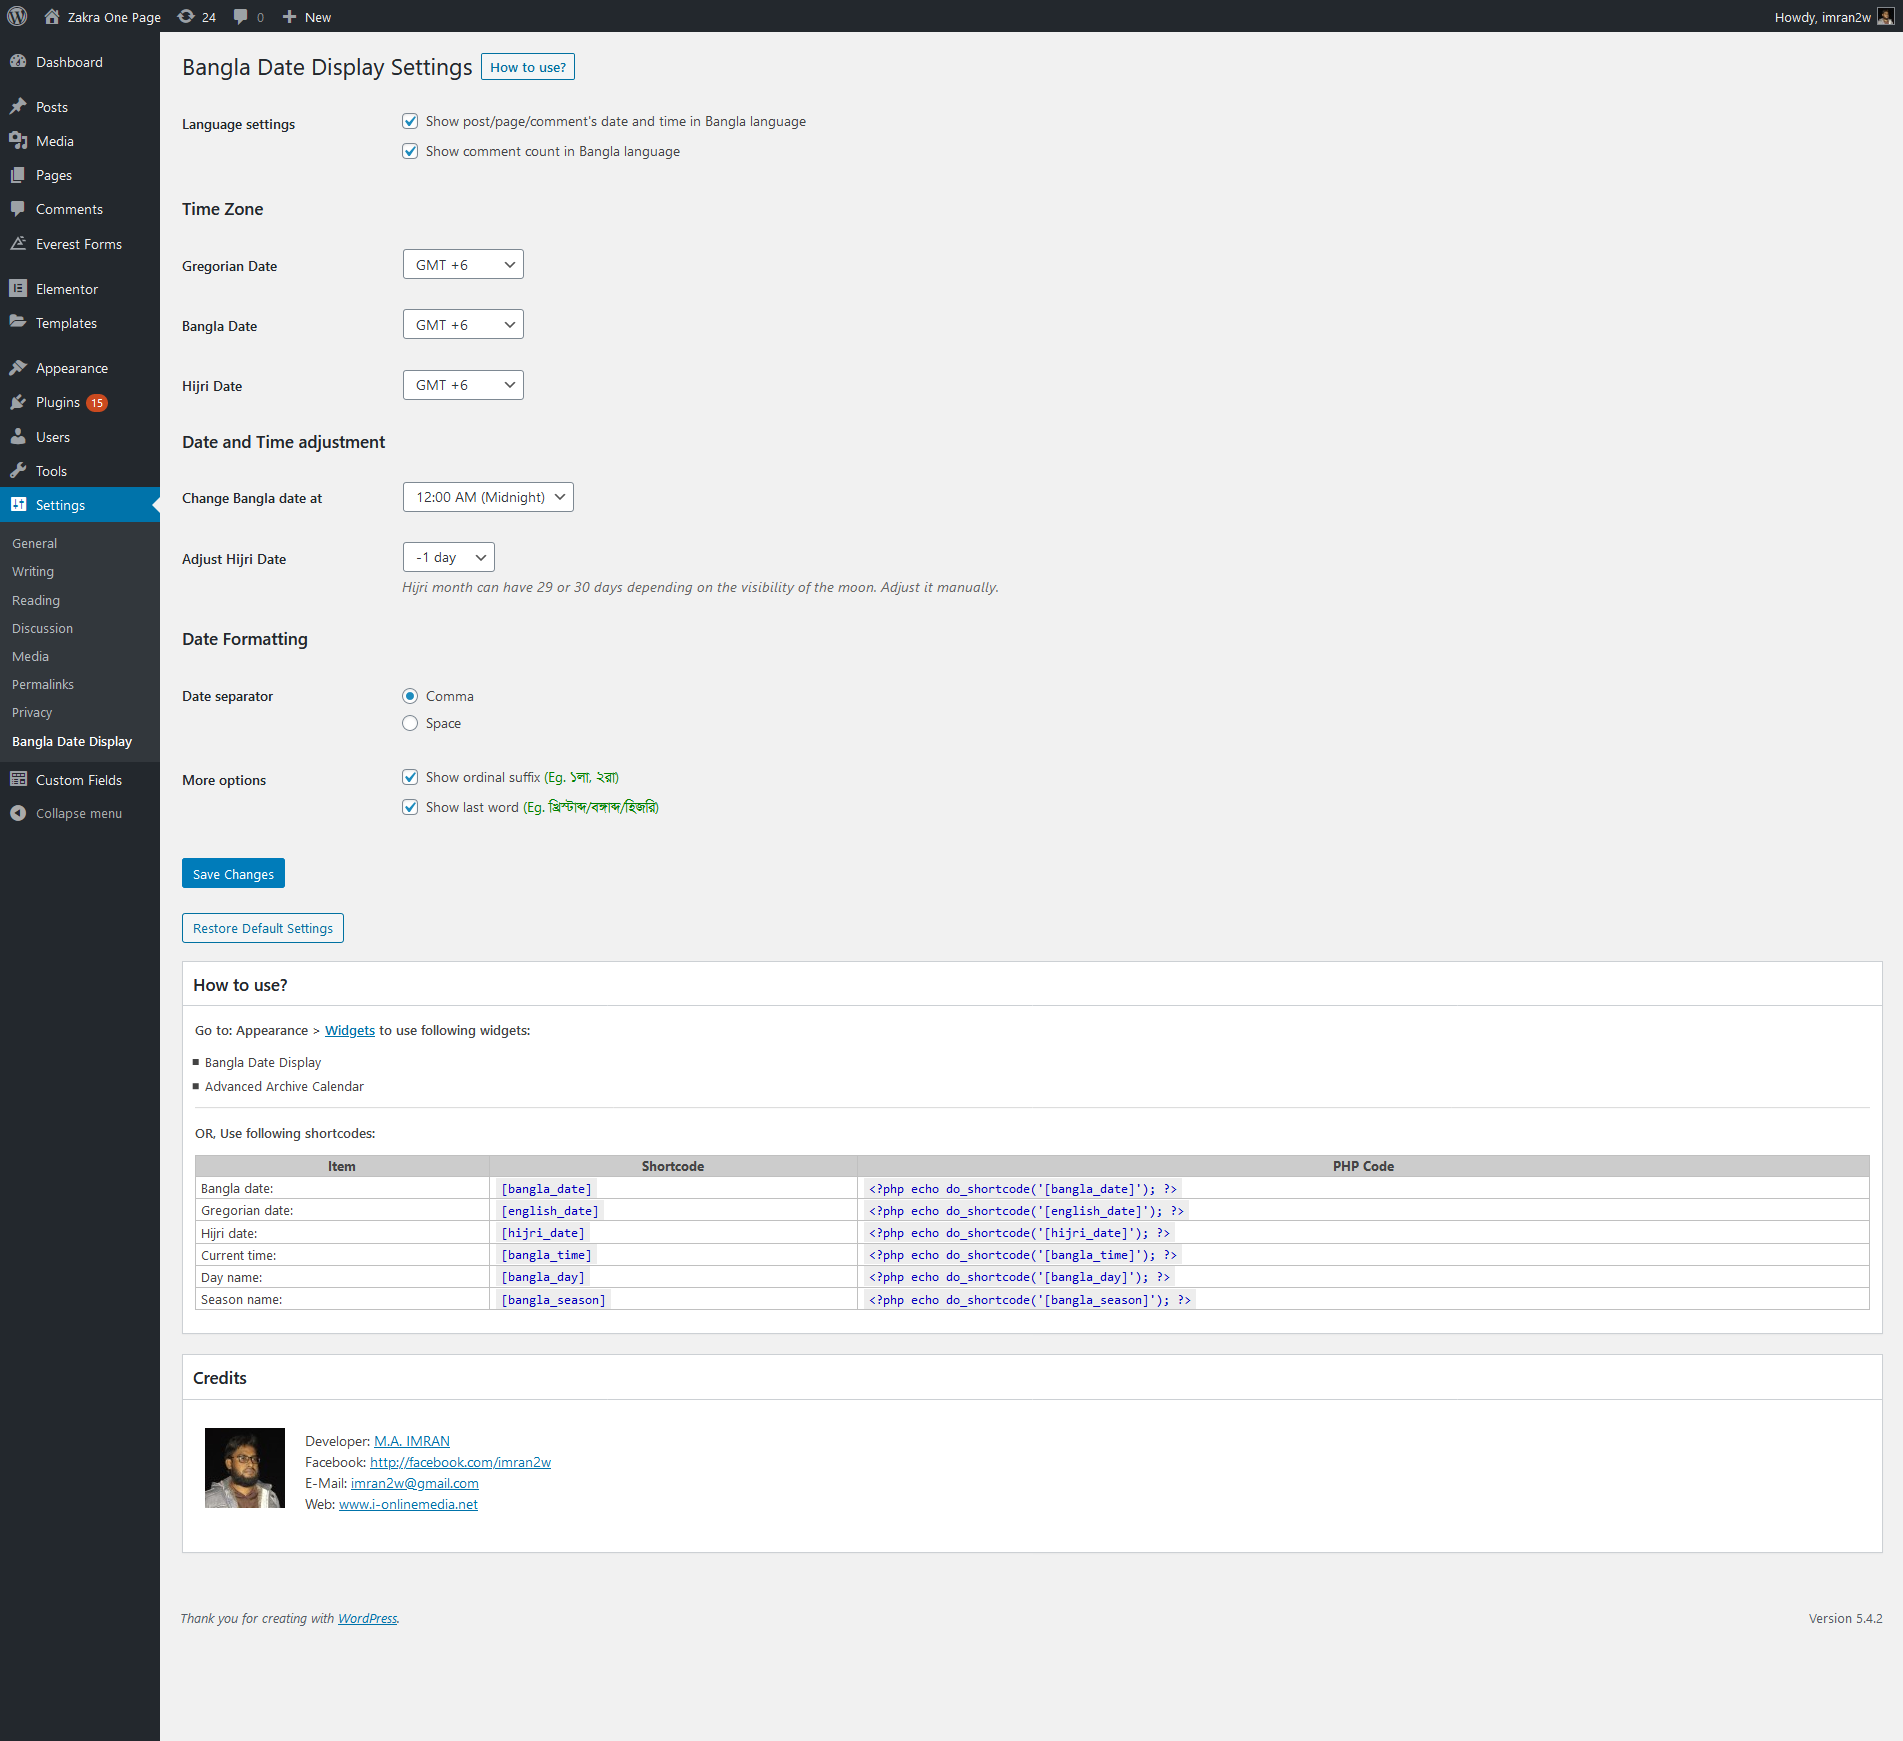
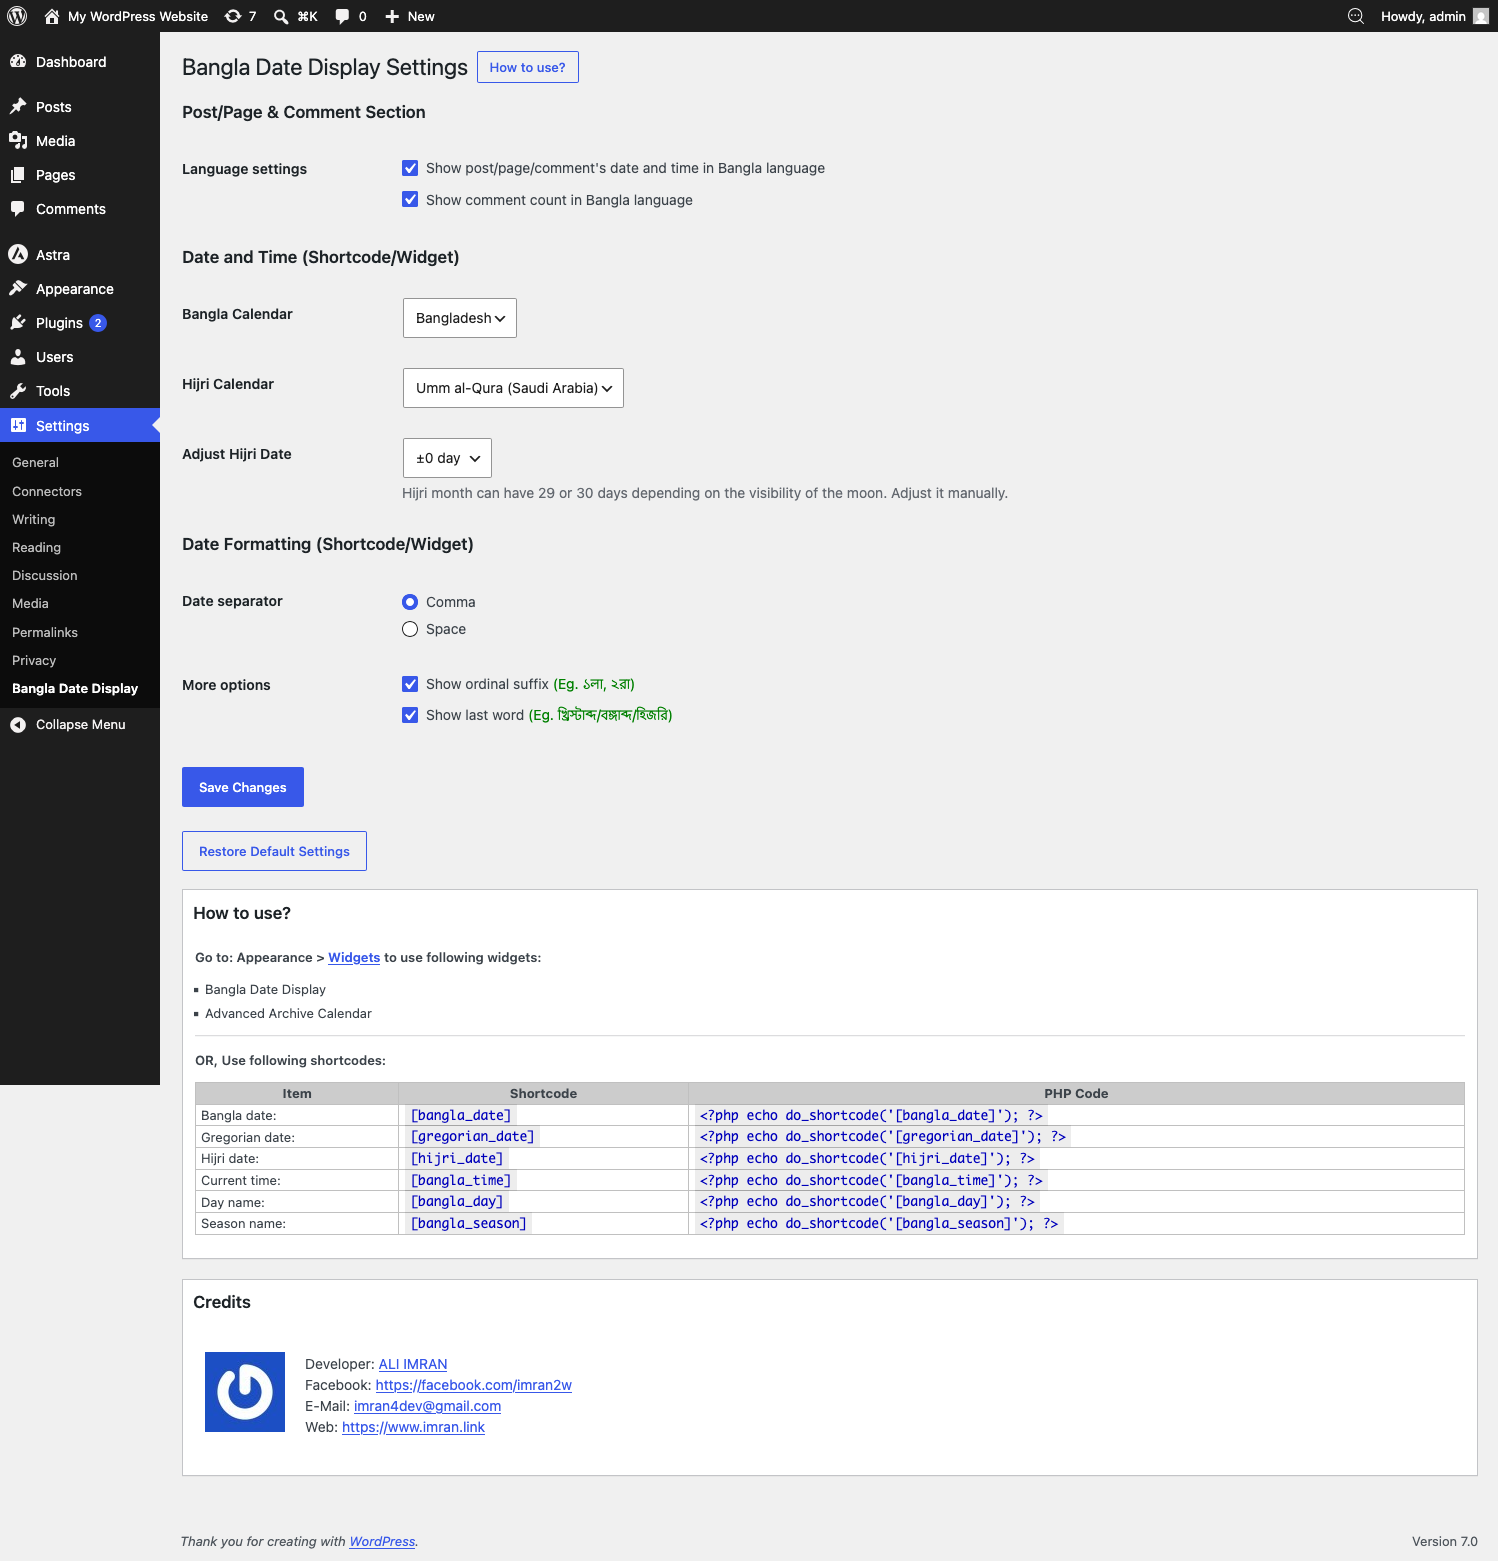
readme update

diff --git a/bangla-date-display.php b/bangla-date-display.php
@@ -4,7 +4,7 @@ Plugin Name: Bangla Date Display
 Plugin URI: https://imran.link
 Description: Displays Bangla, Gregorian and Hijri date in bangla language via widgets and shortcodes! Options for displaying post/page's time, date, comment count, archive calendar etc in Bangla language.
 Author: ALI IMRAN
-Version: 10.0.0
+Version: 10.0.1
 Author URI: https://imran.link
 */
 
@@ -16,7 +16,7 @@ This program is free software; you can redistribute it and/or modify it under th
 
 defined( 'ABSPATH' ) or die( 'Stop! You can not do this!' );
 
-define( 'BDDP_VERSION', '10.0.0' );
+define( 'BDDP_VERSION', '10.0.1' );
 
 require __DIR__ . '/ajax-archive-calendar.php';
 
